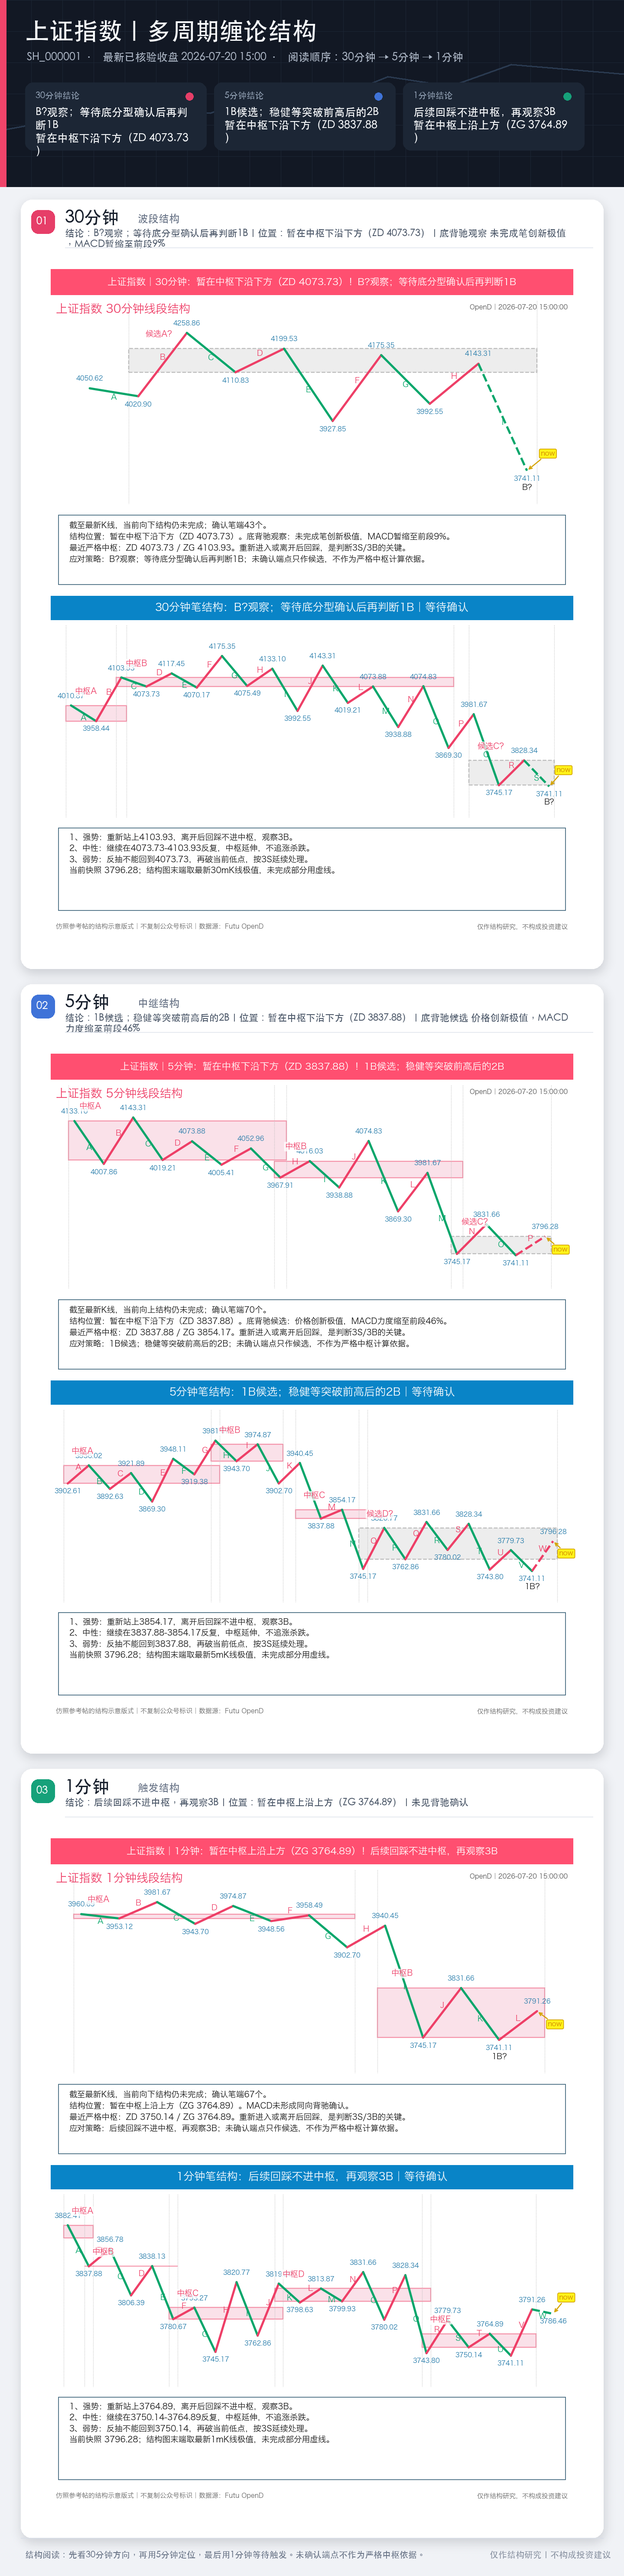
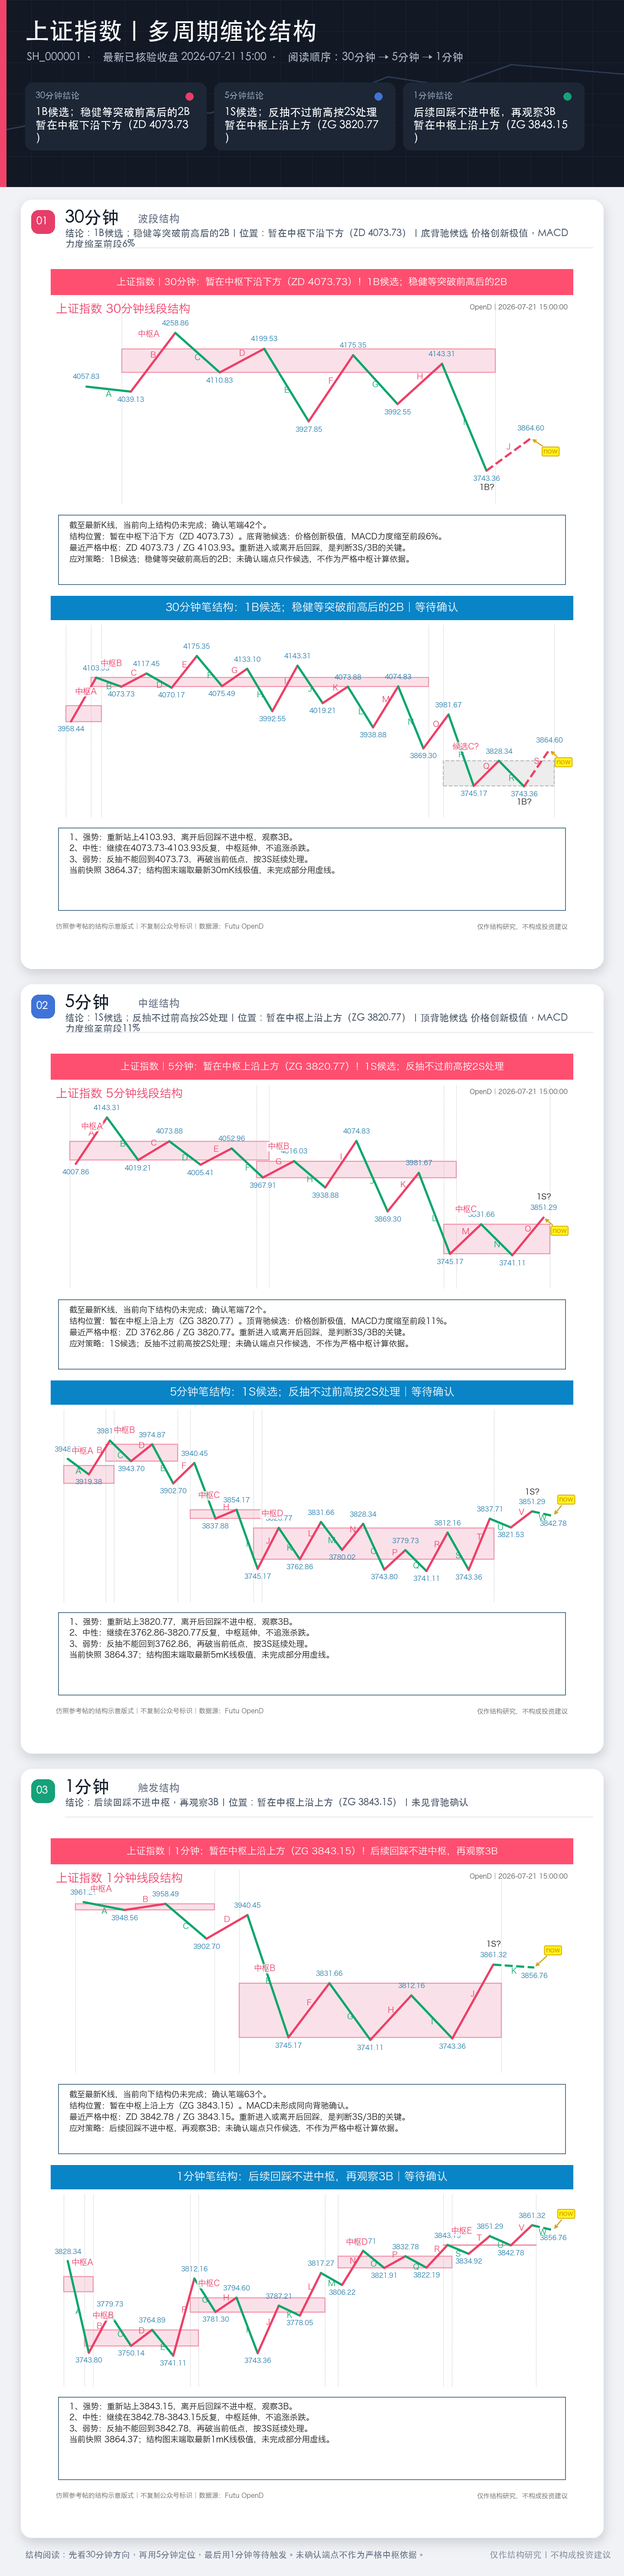
Update chanlun review for 2026-07-21

diff --git a/chanlun/index.html b/chanlun/index.html
@@ -200,8 +200,8 @@
     <header>
       <h1>A股三指数缠论复盘</h1>
       <div class="sub">
-        <span class="badge">交易日 2026-07-20</span>
-        <span class="badge">339/339 校验通过</span>
+        <span class="badge">交易日 2026-07-21</span>
+        <span class="badge">345/345 校验通过</span>
         <span class="badge">页面每 300 秒自动刷新</span>
       </div>
     </header>
@@ -210,33 +210,33 @@
               <div class="card-head">
                 <div>
                   <h2>上证指数</h2>
-                  <p>SH.000001 · 最新已核验收盘 2026-07-20 15:00:00</p>
+                  <p>SH.000001 · 最新已核验收盘 2026-07-21 15:00:00</p>
                 </div>
                 <div class="price-box">
                   <span>收盘</span>
-                  <strong>3796.28</strong>
+                  <strong>3864.37</strong>
                 </div>
               </div>
-              <img src="SH_000001_30m_5m_1m_combined_chanlun.png?v=1784554991" alt="上证指数 合并图">
+              <img src="SH_000001_30m_5m_1m_combined_chanlun.png?v=1784619585" alt="上证指数 合并图">
               <ul class="signals">
-                <li><b>30m</b><span>B?观察；等待底分型确认后再判断1B</span><em>暂在中枢下沿下方（ZD 4073.73）</em></li>
-<li><b>5m</b><span>1B候选；稳健等突破前高后的2B</span><em>暂在中枢下沿下方（ZD 3837.88）</em></li>
-<li><b>1m</b><span>后续回踩不进中枢，再观察3B</span><em>暂在中枢上沿上方（ZG 3764.89）</em></li>
+                <li><b>30m</b><span>1B候选；稳健等突破前高后的2B</span><em>暂在中枢下沿下方（ZD 4073.73）</em></li>
+<li><b>5m</b><span>1S候选；反抽不过前高按2S处理</span><em>暂在中枢上沿上方（ZG 3820.77）</em></li>
+<li><b>1m</b><span>后续回踩不进中枢，再观察3B</span><em>暂在中枢上沿上方（ZG 3843.15）</em></li>
               </ul>
               <div class="analysis">
                 <h3>当前点位分析</h3>
                 <ul>
-                  <li>30分钟目前是“B?观察；等待底分型确认后再判断1B”，位置为“暂在中枢下沿下方（ZD 4073.73）”；底背驰观察：未完成笔创新极值，MACD暂缩至前段9%，所以这里只能先按观察点处理。</li>
-                  <li>5分钟当前是“1B候选；稳健等突破前高后的2B”，位置为“暂在中枢下沿下方（ZD 3837.88）”；底背驰候选：价格创新极值，MACD力度缩至前段46%，说明有反抽基础，但还不是确认买点。</li>
-                  <li>1分钟当前是“后续回踩不进中枢，再观察3B”，位置为“暂在中枢上沿上方（ZG 3764.89）”；这里的含义是暂时站在中枢上沿外侧，不等于已经确认3B。</li>
+                  <li>30分钟当前是“1B候选；稳健等突破前高后的2B”，位置为“暂在中枢下沿下方（ZD 4073.73）”；底背驰候选：价格创新极值，MACD力度缩至前段6%，说明有反抽基础，但还不是确认买点。</li>
+                  <li>5分钟当前信号为“1S候选；反抽不过前高按2S处理”，位置为“暂在中枢上沿上方（ZG 3820.77）”；顶背驰候选：价格创新极值，MACD力度缩至前段11%。</li>
+                  <li>1分钟当前是“后续回踩不进中枢，再观察3B”，位置为“暂在中枢上沿上方（ZG 3843.15）”；这里的含义是暂时站在中枢上沿外侧，不等于已经确认3B。</li>
                 </ul>
               </div>
               <div class="outlook">
-                <h3>明天预案（2026-07-21）</h3>
+                <h3>下一交易日预案（2026-07-22，节假日顺延）</h3>
                 <ul>
-                  <li>强势修复：先看 1 分钟能否继续站在 3764.89 上方，若后续回踩不进中枢，再上看 5 分钟修复位 3837.88，再强才谈 3854.17 以上的延续。</li>
-                  <li>中性震荡：若主要在 3764.89-3837.88 之间反复，就继续按修复中的箱体震荡看；未重新回到 3837.88 上方前，不把它当反转。</li>
-                  <li>弱势破位：若重新跌回 3764.89 下方且再破今日低点 3741.11，则本轮回抽视为失败，继续等新的 1B/B1；30 分钟未回到 4073.73 附近前，不按主结构修复处理。</li>
+                  <li>强势修复：先看 1 分钟能否继续站在 3843.15 上方，若后续回踩不进中枢，再上看 5 分钟修复位 3762.86，再强才谈 3820.77 以上的延续。</li>
+                  <li>中性震荡：若主要在 3762.86-3843.15 之间反复，就继续按修复中的箱体震荡看；未重新回到 3762.86 上方前，不把它当反转。</li>
+                  <li>弱势破位：若重新跌回 3843.15 下方且再破今日低点 3743.36，则本轮回抽视为失败，继续等新的 1B/B1；30 分钟未回到 4073.73 附近前，不按主结构修复处理。</li>
                 </ul>
               </div>
             </section>
@@ -244,33 +244,33 @@
               <div class="card-head">
                 <div>
                   <h2>创业板指</h2>
-                  <p>SZ.399006 · 最新已核验收盘 2026-07-20 15:00:00</p>
+                  <p>SZ.399006 · 最新已核验收盘 2026-07-21 15:00:00</p>
                 </div>
                 <div class="price-box">
                   <span>收盘</span>
-                  <strong>3443.10</strong>
+                  <strong>3685.97</strong>
                 </div>
               </div>
-              <img src="SZ_399006_30m_5m_1m_combined_chanlun.png?v=1784554991" alt="创业板指 合并图">
+              <img src="SZ_399006_30m_5m_1m_combined_chanlun.png?v=1784619585" alt="创业板指 合并图">
               <ul class="signals">
-                <li><b>30m</b><span>B?观察；等待底分型确认后再判断1B</span><em>暂在中枢下沿下方（ZD 3824.33）</em></li>
-<li><b>5m</b><span>1B候选；稳健等突破前高后的2B</span><em>暂在中枢下沿下方（ZD 3487.99）</em></li>
-<li><b>1m</b><span>后续回踩不进中枢，再观察3B</span><em>暂在中枢上沿上方（ZG 3433.79）</em></li>
+                <li><b>30m</b><span>1B候选；稳健等突破前高后的2B</span><em>暂在中枢下沿下方（ZD 3824.33）</em></li>
+<li><b>5m</b><span>1S候选；反抽不过前高按2S处理</span><em>暂在中枢上沿上方（ZG 3527.63）</em></li>
+<li><b>1m</b><span>后续回踩不进中枢，再观察3B</span><em>暂在中枢上沿上方（ZG 3636.56）</em></li>
               </ul>
               <div class="analysis">
                 <h3>当前点位分析</h3>
                 <ul>
-                  <li>30分钟目前是“B?观察；等待底分型确认后再判断1B”，位置为“暂在中枢下沿下方（ZD 3824.33）”；底背驰观察：未完成笔创新极值，MACD暂缩至前段24%，所以这里只能先按观察点处理。</li>
-                  <li>5分钟当前是“1B候选；稳健等突破前高后的2B”，位置为“暂在中枢下沿下方（ZD 3487.99）”；底背驰候选：价格创新极值，MACD力度缩至前段81%，说明有反抽基础，但还不是确认买点。</li>
-                  <li>1分钟当前是“后续回踩不进中枢，再观察3B”，位置为“暂在中枢上沿上方（ZG 3433.79）”；这里的含义是暂时站在中枢上沿外侧，不等于已经确认3B。</li>
+                  <li>30分钟当前是“1B候选；稳健等突破前高后的2B”，位置为“暂在中枢下沿下方（ZD 3824.33）”；底背驰候选：价格创新极值，MACD力度缩至前段14%，说明有反抽基础，但还不是确认买点。</li>
+                  <li>5分钟当前信号为“1S候选；反抽不过前高按2S处理”，位置为“暂在中枢上沿上方（ZG 3527.63）”；顶背驰候选：价格创新极值，MACD力度缩至前段0%。</li>
+                  <li>1分钟当前是“后续回踩不进中枢，再观察3B”，位置为“暂在中枢上沿上方（ZG 3636.56）”；这里的含义是暂时站在中枢上沿外侧，不等于已经确认3B。</li>
                 </ul>
               </div>
               <div class="outlook">
-                <h3>明天预案（2026-07-21）</h3>
+                <h3>下一交易日预案（2026-07-22，节假日顺延）</h3>
                 <ul>
-                  <li>强势修复：先看 1 分钟能否继续站在 3433.79 上方，若后续回踩不进中枢，再上看 5 分钟修复位 3487.99，再强才谈 3527.63 以上的延续。</li>
-                  <li>中性震荡：若主要在 3433.79-3487.99 之间反复，就继续按修复中的箱体震荡看；未重新回到 3487.99 上方前，不把它当反转。</li>
-                  <li>弱势破位：若重新跌回 3433.79 下方且再破今日低点 3338.21，则本轮回抽视为失败，继续等新的 1B/B1；30 分钟未回到 3824.33 附近前，不按主结构修复处理。</li>
+                  <li>强势修复：先看 1 分钟能否继续站在 3636.56 上方，若后续回踩不进中枢，再上看 5 分钟修复位 3487.99，再强才谈 3527.63 以上的延续。</li>
+                  <li>中性震荡：若主要在 3487.99-3636.56 之间反复，就继续按修复中的箱体震荡看；未重新回到 3487.99 上方前，不把它当反转。</li>
+                  <li>弱势破位：若重新跌回 3636.56 下方且再破今日低点 3373.04，则本轮回抽视为失败，继续等新的 1B/B1；30 分钟未回到 3824.33 附近前，不按主结构修复处理。</li>
                 </ul>
               </div>
             </section>
@@ -278,33 +278,33 @@
               <div class="card-head">
                 <div>
                   <h2>科创50</h2>
-                  <p>SH.000688 · 最新已核验收盘 2026-07-20 15:00:00</p>
+                  <p>SH.000688 · 最新已核验收盘 2026-07-21 15:00:00</p>
                 </div>
                 <div class="price-box">
                   <span>收盘</span>
-                  <strong>1718.69</strong>
+                  <strong>1903.16</strong>
                 </div>
               </div>
-              <img src="SH_000688_30m_5m_1m_combined_chanlun.png?v=1784554991" alt="科创50 合并图">
+              <img src="SH_000688_30m_5m_1m_combined_chanlun.png?v=1784619585" alt="科创50 合并图">
               <ul class="signals">
                 <li><b>30m</b><span>1B候选；稳健等突破前高后的2B</span><em>暂在中枢下沿下方（ZD 1976.92）</em></li>
-<li><b>5m</b><span>1B候选；稳健等突破前高后的2B</span><em>暂在中枢下沿下方（ZD 1770.07）</em></li>
-<li><b>1m</b><span>后续回踩不进中枢，再观察3B</span><em>暂在中枢上沿上方（ZG 1680.26）</em></li>
+<li><b>5m</b><span>1S候选；反抽不过前高按2S处理</span><em>暂在中枢上沿上方（ZG 1753.25）</em></li>
+<li><b>1m</b><span>后续回踩不进中枢，再观察3B</span><em>暂在中枢上沿上方（ZG 1882.00）</em></li>
               </ul>
               <div class="analysis">
                 <h3>当前点位分析</h3>
                 <ul>
                   <li>30分钟当前是“1B候选；稳健等突破前高后的2B”，位置为“暂在中枢下沿下方（ZD 1976.92）”；底背驰候选：价格创新极值，MACD力度缩至前段27%，说明有反抽基础，但还不是确认买点。</li>
-                  <li>5分钟当前是“1B候选；稳健等突破前高后的2B”，位置为“暂在中枢下沿下方（ZD 1770.07）”；底背驰候选：价格创新极值，MACD力度缩至前段8%，说明有反抽基础，但还不是确认买点。</li>
-                  <li>1分钟当前是“后续回踩不进中枢，再观察3B”，位置为“暂在中枢上沿上方（ZG 1680.26）”；这里的含义是暂时站在中枢上沿外侧，不等于已经确认3B。</li>
+                  <li>5分钟当前信号为“1S候选；反抽不过前高按2S处理”，位置为“暂在中枢上沿上方（ZG 1753.25）”；顶背驰候选：价格创新极值，MACD力度缩至前段3%。</li>
+                  <li>1分钟当前是“后续回踩不进中枢，再观察3B”，位置为“暂在中枢上沿上方（ZG 1882.00）”；这里的含义是暂时站在中枢上沿外侧，不等于已经确认3B。</li>
                 </ul>
               </div>
               <div class="outlook">
-                <h3>明天预案（2026-07-21）</h3>
+                <h3>下一交易日预案（2026-07-22，节假日顺延）</h3>
                 <ul>
-                  <li>强势修复：先看 1 分钟能否继续站在 1680.26 上方，若后续回踩不进中枢，再上看 5 分钟修复位 1770.07，再强才谈 1793.40 以上的延续。</li>
-                  <li>中性震荡：若主要在 1680.26-1770.07 之间反复，就继续按修复中的箱体震荡看；未重新回到 1770.07 上方前，不把它当反转。</li>
-                  <li>弱势破位：若重新跌回 1680.26 下方且再破今日低点 1646.39，则本轮回抽视为失败，继续等新的 1B/B1；30 分钟未回到 1976.92 附近前，不按主结构修复处理。</li>
+                  <li>强势修复：先看 1 分钟能否继续站在 1882.00 上方，若后续回踩不进中枢，再上看 5 分钟修复位 1707.87，再强才谈 1753.25 以上的延续。</li>
+                  <li>中性震荡：若主要在 1707.87-1882.00 之间反复，就继续按修复中的箱体震荡看；未重新回到 1707.87 上方前，不把它当反转。</li>
+                  <li>弱势破位：若重新跌回 1882.00 下方且再破今日低点 1663.85，则本轮回抽视为失败，继续等新的 1B/B1；30 分钟未回到 1976.92 附近前，不按主结构修复处理。</li>
                 </ul>
               </div>
             </section>
